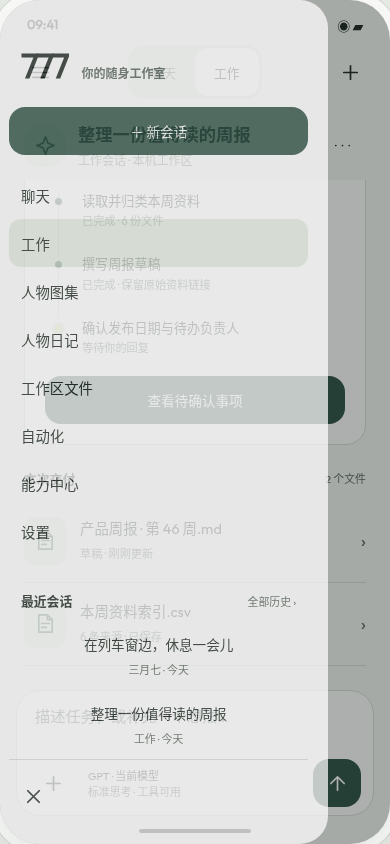
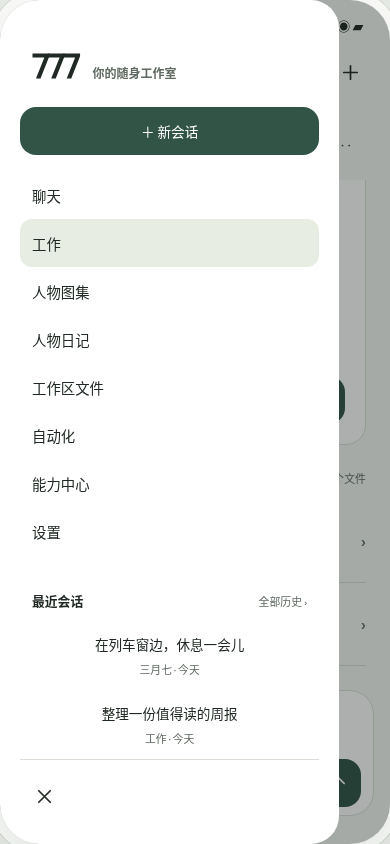
改善人物封面在短屏和大字下的布局并校正弹层截图

diff --git a/docs/design/v7/mobile/studio.css b/docs/design/v7/mobile/studio.css
@@ -1,3 +1,4 @@
 @font-face{font-family:Outfit;src:url('../../../../app/src/main/res/font/fluid_outfit_400.ttf')}*{box-sizing:border-box}body{margin:0;background:#e8ece7;color:#202923;font-family:Outfit,'Noto Sans CJK SC','Microsoft YaHei',sans-serif;font-size:16px}button,input,textarea{font:inherit}button,a,input,textarea{-webkit-tap-highlight-color:transparent}button{cursor:pointer;color:inherit;border:0;background:transparent}button:focus-visible,a:focus-visible,input:focus-visible,textarea:focus-visible{outline:2px solid #315447;outline-offset:3px}button{min-height:48px}a{color:inherit;text-decoration:none}.review{position:fixed;inset:0 auto 0 0;width:250px;padding:44px 32px;border-right:1px solid #ced6ce;display:flex;flex-direction:column}.wordmark{font-size:38px;font-weight:700;letter-spacing:-3px}.wordmark span{font-size:14px;letter-spacing:0;margin-left:16px}.review p{font-size:12px;letter-spacing:1px;color:#616e63;margin:22px 0}.review nav{display:grid;gap:3px}.review nav a{padding:12px 16px;border-radius:12px;font-size:14px}.review nav a.active{background:#315447;color:white}.review-controls{display:grid;gap:10px;margin-top:auto;font-size:13px}.review input{accent-color:#315447;margin-right:9px}.review small{font-size:11px;color:#5e695f;line-height:1.9;margin-top:24px}.stage{padding:42px 24px 24px;margin-left:250px;display:flex;flex-direction:column;align-items:center}.device{--canvas:#f5f7f3;--paper:#fff;--ink:#202923;--muted:#5f6a61;--line:#d8dfd6;--green:#315447;--ongreen:#fff;--wash:#e7ede3;--lime:#ddeba4;--danger:#993c34;width:390px;height:844px;position:relative;background:var(--canvas);color:var(--ink);border-radius:40px;box-shadow:0 28px 75px #1a2b2520,0 0 0 9px #fbfcf9,0 0 0 10px #d4dad1;overflow:hidden;display:flex;flex-direction:column}.device.dark{--canvas:#141c18;--paper:#1e2922;--ink:#edf2e9;--muted:#b1bfb3;--line:#3b4b40;--green:#b1d3bc;--ongreen:#173225;--wash:#2b3c30;--lime:#d1e48e;--danger:#f2b1a4}.device.large{font-size:20px}.device.short{height:640px}.status{display:flex;justify-content:space-between;padding:16px 27px 8px;font-size:13px;font-weight:600;flex-shrink:0}.home-indicator{height:24px;display:flex;justify-content:center;flex-shrink:0}.home-indicator:after{content:'';width:112px;height:4px;border-radius:2px;background:var(--ink);margin-top:9px}#app{flex:1;display:flex;flex-direction:column;overflow:hidden;min-height:0}.caption{display:flex;justify-content:space-between;width:390px;font-size:12px;color:#5c685e;margin-top:25px}.bar{display:flex;align-items:center;padding:0 16px;min-height:58px;gap:8px;flex-shrink:0}.icon{width:48px;height:48px;display:grid;place-items:center;flex-shrink:0;border-radius:16px}.icon svg,.mini-icon svg{width:23px;height:23px;fill:none;stroke:currentColor;stroke-width:1.75;stroke-linecap:round;stroke-linejoin:round}.icon:hover{background:var(--wash)}.mode{display:flex;align-items:center;background:var(--wash);border-radius:16px;padding:3px;margin:auto;font-size:.8em}.mode button{min-height:40px;padding:0 19px;border-radius:13px;color:var(--muted)}.mode button.active{background:var(--paper);color:var(--ink);box-shadow:0 1px 3px #0000000b}.context{padding:20px 24px 10px;display:flex;gap:12px;align-items:center}.avatar{width:42px;height:42px;object-fit:cover;border-radius:16px}.context h2{font-size:1.08em;margin:0 0 5px;font-weight:600}.sub,.meta{font-size:.75em;color:var(--muted);line-height:1.6}.context .icon{margin-left:auto}.scroll{overflow:auto;flex:1;min-height:0;padding:12px 24px 24px;scrollbar-width:thin}.stamp{text-align:center;font-size:.65em;color:var(--muted);margin:4px 0 24px;letter-spacing:1px}.message{font-size:1em;line-height:1.85;margin:0 0 20px;overflow-wrap:anywhere}.user{margin-left:48px;background:var(--wash);padding:13px 17px;border-radius:20px 6px 20px 20px}.byline{display:flex;align-items:center;gap:8px;color:var(--green);font-size:.75em;font-weight:600;margin-bottom:10px}.byline:before{content:'';width:5px;height:5px;border-radius:50%;background:var(--green)}.assistant p{margin:0 0 14px}.message-actions{display:flex;gap:4px}.message-actions button{min-width:56px;min-height:48px;font-size:.7em;color:var(--muted)}.composer{margin:0 16px 4px;padding:14px 12px 8px;background:var(--paper);border:1px solid var(--line);border-radius:24px;flex-shrink:0}.composer textarea{resize:none;background:none;border:none;color:var(--ink);width:100%;height:50px;max-height:140px;font-size:.95em;padding:0 6px;line-height:1.6}.composer textarea::placeholder{color:var(--muted)}.composer-row{display:flex;align-items:center;gap:3px}.composer-row .model{font-size:.68em;min-height:48px;text-align:left;padding:4px 8px;flex:1;color:var(--muted)}.model b{display:block;color:var(--ink);font-weight:500}.send{background:var(--green);color:var(--ongreen);border-radius:16px}.send:hover{background:var(--green);filter:brightness(.93)}.page-title{padding:18px 24px 12px}.eyebrow{font-size:.64em;letter-spacing:2px;color:var(--muted);margin-bottom:8px}.page-title h1{font-size:1.75em;line-height:1.25;margin:0;font-weight:600;letter-spacing:-.8px}.page-title p{font-size:.8em;line-height:1.8;color:var(--muted);margin:9px 0 0}.title-row{display:flex;align-items:center;justify-content:space-between}.search{display:flex;gap:10px;align-items:center;background:var(--wash);border-radius:16px;padding:0 14px;min-height:48px;margin-bottom:18px}.search input{min-width:0;width:100%;border:none;background:none;color:var(--ink);font-size:.85em}.search input::placeholder{color:var(--muted)}.tabs{display:flex;gap:20px;border-bottom:1px solid var(--line);margin-bottom:20px;overflow-x:auto;flex-shrink:0}.tabs button{font-size:.85em;white-space:nowrap;position:relative;color:var(--muted);padding:0 0 12px}.tabs button.active{color:var(--green);font-weight:600}.tabs button.active:after{position:absolute;bottom:0;left:0;right:0;height:3px;border-radius:3px;content:'';background:var(--green)}.section-head{display:flex;align-items:center;justify-content:space-between;margin:20px 0 12px;font-size:.8em;font-weight:600}.section-head span{color:var(--muted);font-weight:400;font-size:.85em}.portrait-grid{display:grid;grid-template-columns:1fr 1fr;gap:18px 14px}.portrait-tile{text-align:left;padding:0;min-width:0}.portrait-tile img{width:100%;height:195px;object-fit:cover;border-radius:20px}.portrait-tile:nth-child(even){padding-top:24px}.portrait-tile h3{font-size:.95em;font-weight:600;margin:10px 0 4px}.portrait-tile p{font-size:.7em;color:var(--muted);margin:0;line-height:1.6}.badge{font-size:.65em;border:1px solid var(--line);padding:5px 9px;border-radius:8px;color:var(--green);display:inline-flex;gap:6px;align-items:center}.badge:before{content:'';width:4px;height:4px;border-radius:100%;background:currentColor}.badge.focus{background:var(--lime);color:#304121;border:0}.work-panel{padding:20px;border:1px solid var(--line);border-radius:20px;background:var(--paper);margin-bottom:24px}.work-panel h3{font-size:1em;margin:14px 0 8px}.timeline{padding-left:13px}.step{position:relative;border-left:1px solid var(--line);padding:0 0 22px 23px;font-size:.82em;line-height:1.7}.step:before{content:'';position:absolute;left:-4px;top:8px;width:7px;height:7px;border-radius:50%;background:var(--green)}.step:last-child{border-left-color:transparent;padding-bottom:0}.step small{display:block;font-size:.85em;color:var(--muted)}.step.wait:before{background:var(--lime);box-shadow:0 0 0 3px var(--wash)}.file-row,.list-row{width:100%;display:flex;text-align:left;align-items:center;gap:14px;padding:17px 0;border-bottom:1px solid var(--line);min-width:0}.file-row .mini-icon{width:42px;height:48px;display:grid;place-items:center;background:var(--wash);border-radius:10px;color:var(--green);flex-shrink:0}.row-body{flex:1;min-width:0}.row-body strong{display:block;font-size:.9em;font-weight:500;line-height:1.6;overflow-wrap:anywhere}.row-body small{display:block;font-size:.7em;color:var(--muted);line-height:1.7;margin-top:4px}.row-chevron{color:var(--muted);font-size:1.2em}.button{border-radius:16px;padding:12px 18px;background:var(--green);color:var(--ongreen);font-size:.85em}.button.secondary{background:var(--wash);color:var(--ink)}.button.danger{background:var(--danger);color:white}.wide{width:100%}.split{display:flex;gap:10px}.split>*{flex:1}.diary-lead{font-family:serif;font-size:2.7em;margin:8px 0 0;font-weight:400}.diary-rule{height:1px;background:var(--line);margin:22px 0}.diary-entry{font-family:serif;font-size:1.02em;line-height:2.05;padding:10px 0}.diary-entry h3{font-size:1.15em;font-weight:500;margin:4px 0 18px}.diary-entry p{margin:0 0 20px}.task-item{display:grid;grid-template-columns:50px 1fr;gap:16px;border-bottom:1px solid var(--line);padding:20px 0}.task-time{font-size:1.1em;letter-spacing:-.5px}.task-time small{display:block;font-size:.6em;letter-spacing:0;color:var(--muted);margin-top:6px}.task-item h3{font-size:.93em;font-weight:600;margin:0 0 8px}.task-item p{font-size:.75em;color:var(--muted);line-height:1.7;margin:0 0 12px}.settings-label{font-size:.73em;color:var(--muted);margin:26px 0 0}.settings .list-row{padding:16px 0}.settings .mini-icon{color:var(--green);display:flex}.notice{padding:14px 16px;background:var(--wash);font-size:.8em;line-height:1.8;border-radius:16px;margin-bottom:16px}.notice.error{color:var(--danger);border:1px solid var(--danger);background:transparent}.notice button{font-size:.9em;text-decoration:underline;min-height:32px;padding:0}.empty{padding:36px 16px;text-align:center;color:var(--muted);font-size:.85em;line-height:1.8}#overlay:empty{display:none}#overlay{position:absolute;inset:0;z-index:5;display:flex;align-items:flex-end;background:#101b1859}.sheet{width:100%;max-height:88%;overflow:auto;background:var(--paper);padding:8px 24px 28px;border-radius:28px 28px 0 0;animation:rise .24s cubic-bezier(.2,.8,.2,1)}.handle{width:32px;height:4px;border-radius:4px;background:var(--line);margin:0 auto 10px}.sheet-head{display:flex;justify-content:space-between;align-items:center;margin-bottom:14px}.sheet-head h2{font-size:1.2em;margin:0}.sheet p{font-size:.86em;line-height:1.8}.sheet .list-row:last-child{border:0}.drawer{align-self:stretch;width:87%;background:var(--paper);padding:44px 20px 24px;display:flex;flex-direction:column;overflow:auto;animation:slide .22s ease-out;border-radius:0 28px 28px 0}.drawer-brand{font-size:34px;font-weight:600;letter-spacing:-2px;margin:0 12px 20px}.drawer-brand span{font-size:12px;letter-spacing:0;margin-left:14px;color:var(--muted)}.drawer-links{display:grid;margin:16px 0}.drawer-links button{text-align:left;padding:12px;border-radius:12px;font-size:.9em}.drawer-links button:hover,.drawer-links button.current{background:var(--wash)}.drawer .section-head{padding:0 12px}.drawer-history{font-size:.85em;padding:12px;line-height:1.7}.drawer-history small{display:block;color:var(--muted);font-size:.8em;margin-top:4px}.drawer-bottom{margin-top:auto;border-top:1px solid var(--line);padding-top:12px}.scene-in{animation:appear .22s ease-out}.toast{position:absolute;z-index:9;bottom:40px;left:24px;right:24px;background:var(--ink);color:var(--canvas);border-radius:14px;padding:14px 18px;font-size:.8em;line-height:1.7}.detail-portrait{width:100%;height:280px;object-fit:cover;border-radius:20px;margin-bottom:20px}.device.reduced *, .device.reduced *:before{animation:none!important;transition:none!important}button{transition:background .14s,transform .09s}button:active{transform:scale(.985)}@keyframes rise{from{transform:translateY(24px);opacity:.4}}@keyframes slide{from{transform:translateX(-20px);opacity:.5}}@keyframes appear{from{transform:translateY(8px);opacity:.6}}@media(prefers-reduced-motion:reduce){*,*:before{animation:none!important;transition:none!important}}@media(max-width:720px){body{background:#f5f7f3}.review{position:relative;width:100%;border:0;padding:20px;gap:10px}.wordmark{font-size:28px}.review p,.review small{display:none}.review nav{display:flex;overflow:auto;gap:4px}.review nav a{white-space:nowrap;padding:8px 12px}.review-controls{display:flex;gap:14px;flex-wrap:wrap;margin-top:4px}.stage{margin:0;padding:12px 0}.device{width:min(100vw,390px);height:calc(100dvh - 190px);min-height:560px;max-height:844px;border-radius:28px;box-shadow:none}.caption{width:calc(100% - 40px)}.device.short{height:640px;min-height:0}}
 .search svg{width:20px;height:20px;flex-shrink:0;fill:none;stroke:currentColor;stroke-width:1.75;stroke-linecap:round}.context>.mini-icon{width:42px;height:42px;display:grid;place-items:center;background:var(--wash);border-radius:16px;color:var(--green)}[hidden]{display:none!important}
 .mode button{min-height:48px}.tabs button{min-width:48px}.notice button{min-height:48px}.portrait-tile img{height:auto;aspect-ratio:.78}.device.large .portrait-grid{grid-template-columns:1fr}.device.large .portrait-tile:nth-child(even){padding-top:0}.device.reduced button:active{transform:none}@media(prefers-reduced-motion:reduce){button:active{transform:none}}
+.device.short .page-title{padding-top:8px;padding-bottom:8px}.device.short .page-title h1{font-size:1.25em}.device.short .page-title .eyebrow,.device.short .page-title p{display:none}.device.short .portrait-grid,.device.large .portrait-grid{grid-template-columns:1fr;gap:16px}.device.short .portrait-tile,.device.large .portrait-tile{display:grid;grid-template-columns:92px 1fr;column-gap:16px;align-content:center;padding-top:0;text-align:left}.device.short .portrait-tile img,.device.large .portrait-tile img{grid-row:1/3;width:92px;height:118px}.device.short .portrait-tile h3,.device.large .portrait-tile h3{align-self:end;margin-top:0}.device.short .portrait-tile p,.device.large .portrait-tile p{align-self:start}

diff --git a/app/src/main/java/com/labteto/dshmobile/ui/screens/local/StudioPersonaTile.kt b/app/src/main/java/com/labteto/dshmobile/ui/screens/local/StudioPersonaTile.kt
@@ -13,6 +13,9 @@ import androidx.compose.foundation.layout.fillMaxSize
 import androidx.compose.foundation.layout.fillMaxWidth
 import androidx.compose.foundation.layout.padding
 import androidx.compose.foundation.layout.size
+import androidx.compose.foundation.layout.width
+import androidx.compose.ui.platform.LocalConfiguration
+import androidx.compose.ui.platform.LocalDensity
 import androidx.compose.foundation.shape.RoundedCornerShape
 import androidx.compose.material3.Icon
 import androidx.compose.material3.Text
@@ -53,14 +56,14 @@ internal fun StudioPersonaTile(
             decodePersonaPortraitBitmap(entry.portraitPath, maxEdgePx = 640)
         }
     }
-    Column(
-        modifier = Modifier.fillMaxWidth().clip(RoundedCornerShape(20.dp))
-            .testTag("personaGalleryEntry_${entry.id}")
-            .combinedClickable(role = Role.Button, onClick = onClick,
-                onLongClickLabel = stringResource(R.string.persona_gallery_manage), onLongClick = onLongClick),
-        verticalArrangement = Arrangement.spacedBy(8.dp),
-    ) {
-        Box(Modifier.fillMaxWidth().aspectRatio(.78f).clip(RoundedCornerShape(20.dp))
+    val compact = LocalConfiguration.current.screenHeightDp < 700 || LocalDensity.current.fontScale >= 1.3f
+    val target = Modifier.fillMaxWidth().clip(RoundedCornerShape(20.dp))
+        .testTag("personaGalleryEntry_${entry.id}")
+        .combinedClickable(role = Role.Button, onClick = onClick,
+            onLongClickLabel = stringResource(R.string.persona_gallery_manage), onLongClick = onLongClick)
+
+    @Composable fun Cover(modifier: Modifier) {
+        Box(modifier.aspectRatio(.78f).clip(RoundedCornerShape(20.dp))
             .background(colors.materialL2), contentAlignment = Alignment.Center) {
             val image = portrait
             if (image != null) {
@@ -72,19 +75,35 @@ internal fun StudioPersonaTile(
                     style = DsType.largeTitle28.withReadingWeight())
             }
         }
-        Row(Modifier.fillMaxWidth().padding(horizontal = 4.dp),
-            verticalAlignment = Alignment.CenterVertically,
-            horizontalArrangement = Arrangement.spacedBy(8.dp)) {
-            Text(entry.persona.name, modifier = Modifier.weight(1f),
-                style = DsType.base16Strong.withReadingWeight(), color = colors.text,
-                maxLines = 2, overflow = TextOverflow.Ellipsis)
-            if (pinned) Icon(FeatherIcons.Pin, contentDescription = stringResource(R.string.persona_gallery_pinned),
-                tint = colors.linkInk, modifier = Modifier.size(16.dp))
+    }
+    @Composable fun Details(modifier: Modifier) {
+        Column(modifier, verticalArrangement = Arrangement.spacedBy(8.dp)) {
+            Row(Modifier.fillMaxWidth().padding(horizontal = 4.dp),
+                verticalAlignment = Alignment.CenterVertically,
+                horizontalArrangement = Arrangement.spacedBy(8.dp)) {
+                Text(entry.persona.name, modifier = Modifier.weight(1f),
+                    style = DsType.base16Strong.withReadingWeight(), color = colors.text,
+                    maxLines = 2, overflow = TextOverflow.Ellipsis)
+                if (pinned) Icon(FeatherIcons.Pin, contentDescription = stringResource(R.string.persona_gallery_pinned),
+                    tint = colors.linkInk, modifier = Modifier.size(16.dp))
+            }
+            Text(entry.persona.coreIdentity.ifBlank {
+                stringResource(R.string.persona_gallery_compact_meta, entry.stories.size, entry.totalDialogueCount())
+            }, modifier = Modifier.padding(start = 4.dp, end = 4.dp, bottom = 8.dp),
+                style = DsType.small13.withReadingWeight(), color = colors.textSecondary,
+                maxLines = if (compact) 3 else 2, overflow = TextOverflow.Ellipsis)
         }
-        Text(entry.persona.coreIdentity.ifBlank {
-            stringResource(R.string.persona_gallery_compact_meta, entry.stories.size, entry.totalDialogueCount())
-        }, modifier = Modifier.padding(start = 4.dp, end = 4.dp, bottom = 8.dp),
-            style = DsType.small13.withReadingWeight(), color = colors.textSecondary,
-            maxLines = 2, overflow = TextOverflow.Ellipsis)
+    }
+    if (compact) {
+        Row(target.padding(vertical = 8.dp), verticalAlignment = Alignment.CenterVertically,
+            horizontalArrangement = Arrangement.spacedBy(16.dp)) {
+            Cover(Modifier.width(92.dp))
+            Details(Modifier.weight(1f))
+        }
+    } else {
+        Column(target, verticalArrangement = Arrangement.spacedBy(8.dp)) {
+            Cover(Modifier.fillMaxWidth())
+            Details(Modifier.fillMaxWidth())
+        }
     }
 }

diff --git a/app/src/main/java/com/labteto/dshmobile/ui/screens/local/FluidPersonaGalleryGrid.kt b/app/src/main/java/com/labteto/dshmobile/ui/screens/local/FluidPersonaGalleryGrid.kt
@@ -41,7 +41,8 @@ internal fun FluidPersonaGalleryGrid(
     val motion = com.shenyan.designsystem.foundation.SyMotion
     val enterOffset = with(LocalDensity.current) { 12.dp.toPx() }
     val columns = if (LocalDensity.current.fontScale >= 1.3f ||
-        LocalConfiguration.current.screenWidthDp < 360) 1 else 2
+        LocalConfiguration.current.screenWidthDp < 360 ||
+        LocalConfiguration.current.screenHeightDp < 700) 1 else 2
     LazyVerticalGrid(
         columns = GridCells.Fixed(columns),
         modifier = modifier,

diff --git a/docs/design/v7/verify-preview.py b/docs/design/v7/verify-preview.py
@@ -55,10 +55,12 @@ def run():
             page.goto(url + '#work')
             page.get_by_role('button', name='查看待确认事项').click()
             assert page.get_by_role('dialog', name='发布前，再确认两件事').is_visible()
+            page.wait_for_timeout(250)  # Capture the settled 240ms sheet, not a translucent animation frame.
             page.locator('#device').screenshot(path=str(OUT / 'approval-sheet.png'))
             page.keyboard.press('Escape')
             assert page.locator('#overlay').evaluate('(e)=>e.childElementCount===0')
             page.get_by_role('button', name='打开导航').click()
+            page.wait_for_timeout(250)  # Settle the specified 220ms drawer entrance.
             page.locator('#device').screenshot(path=str(OUT / 'navigation-drawer.png'))
             page.get_by_role('button', name='工作区文件', exact=True).click()
             assert page.url.endswith('#files')
